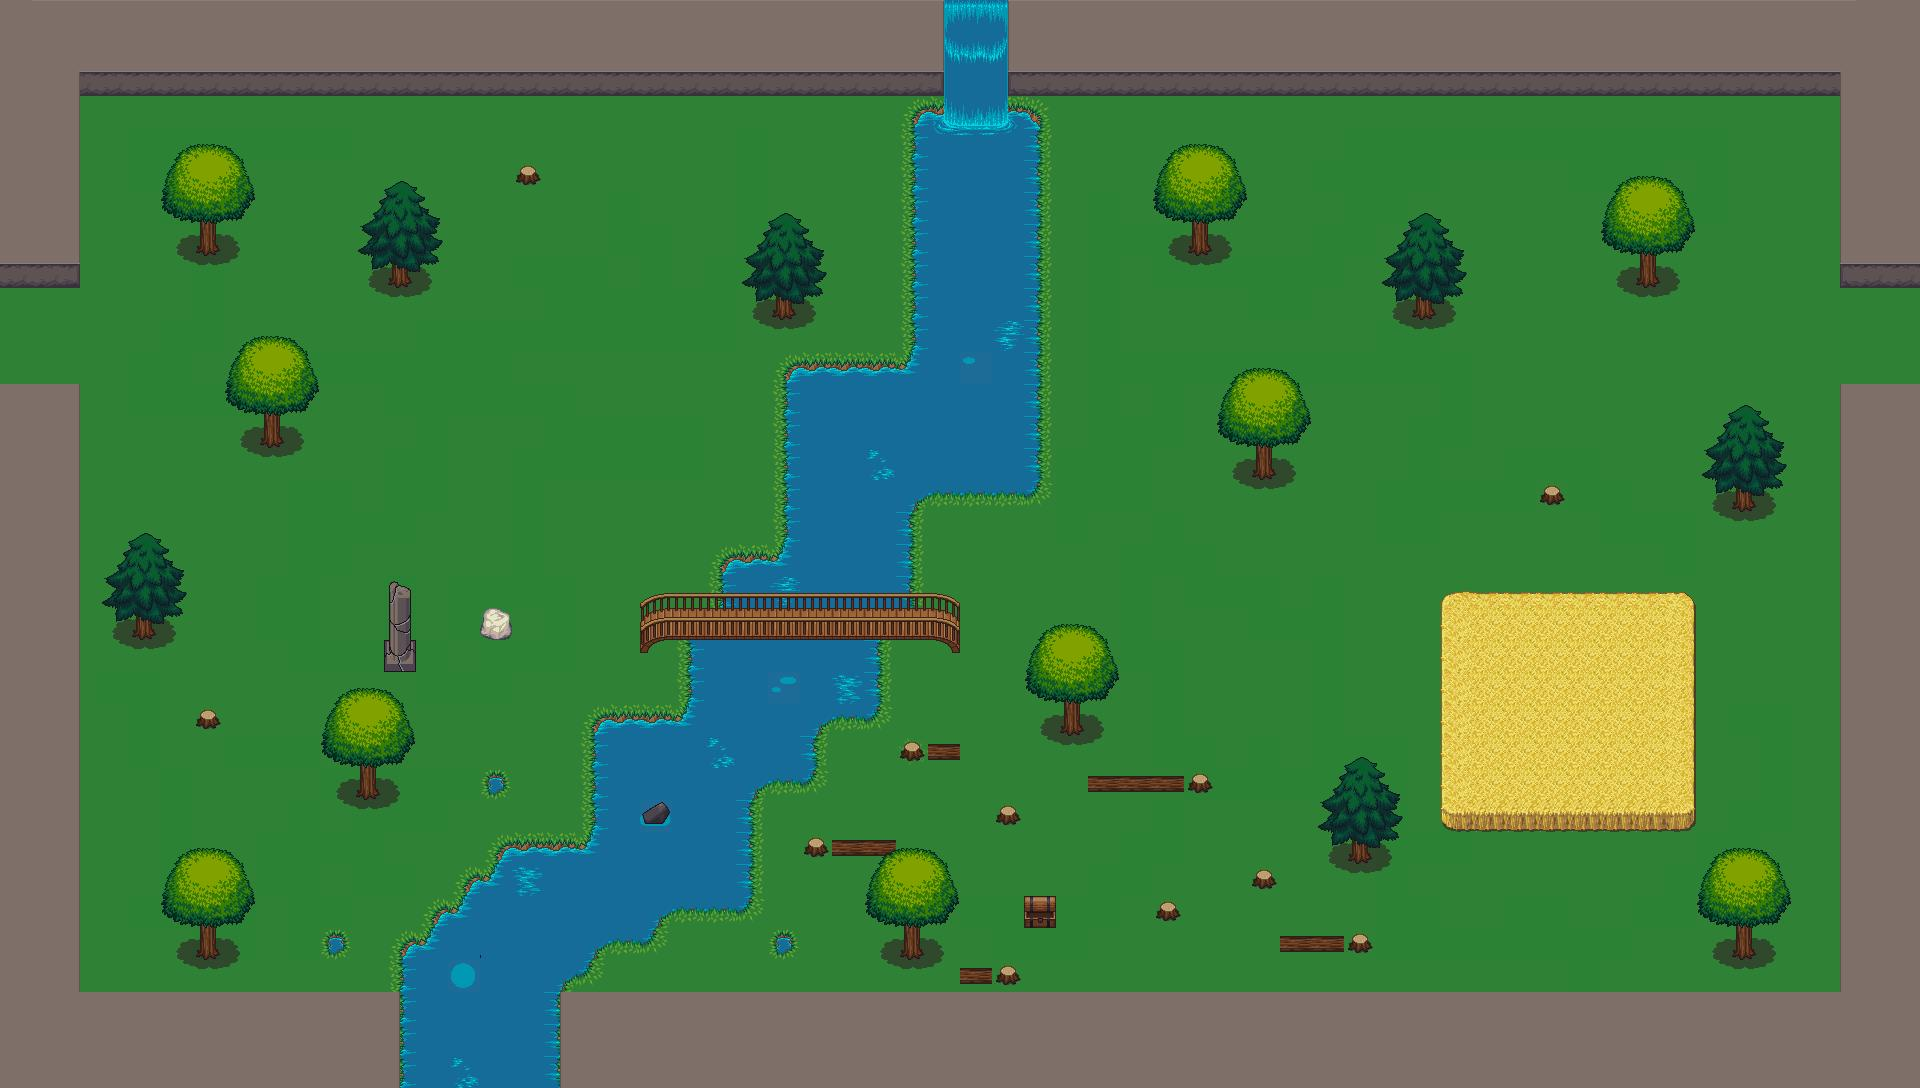
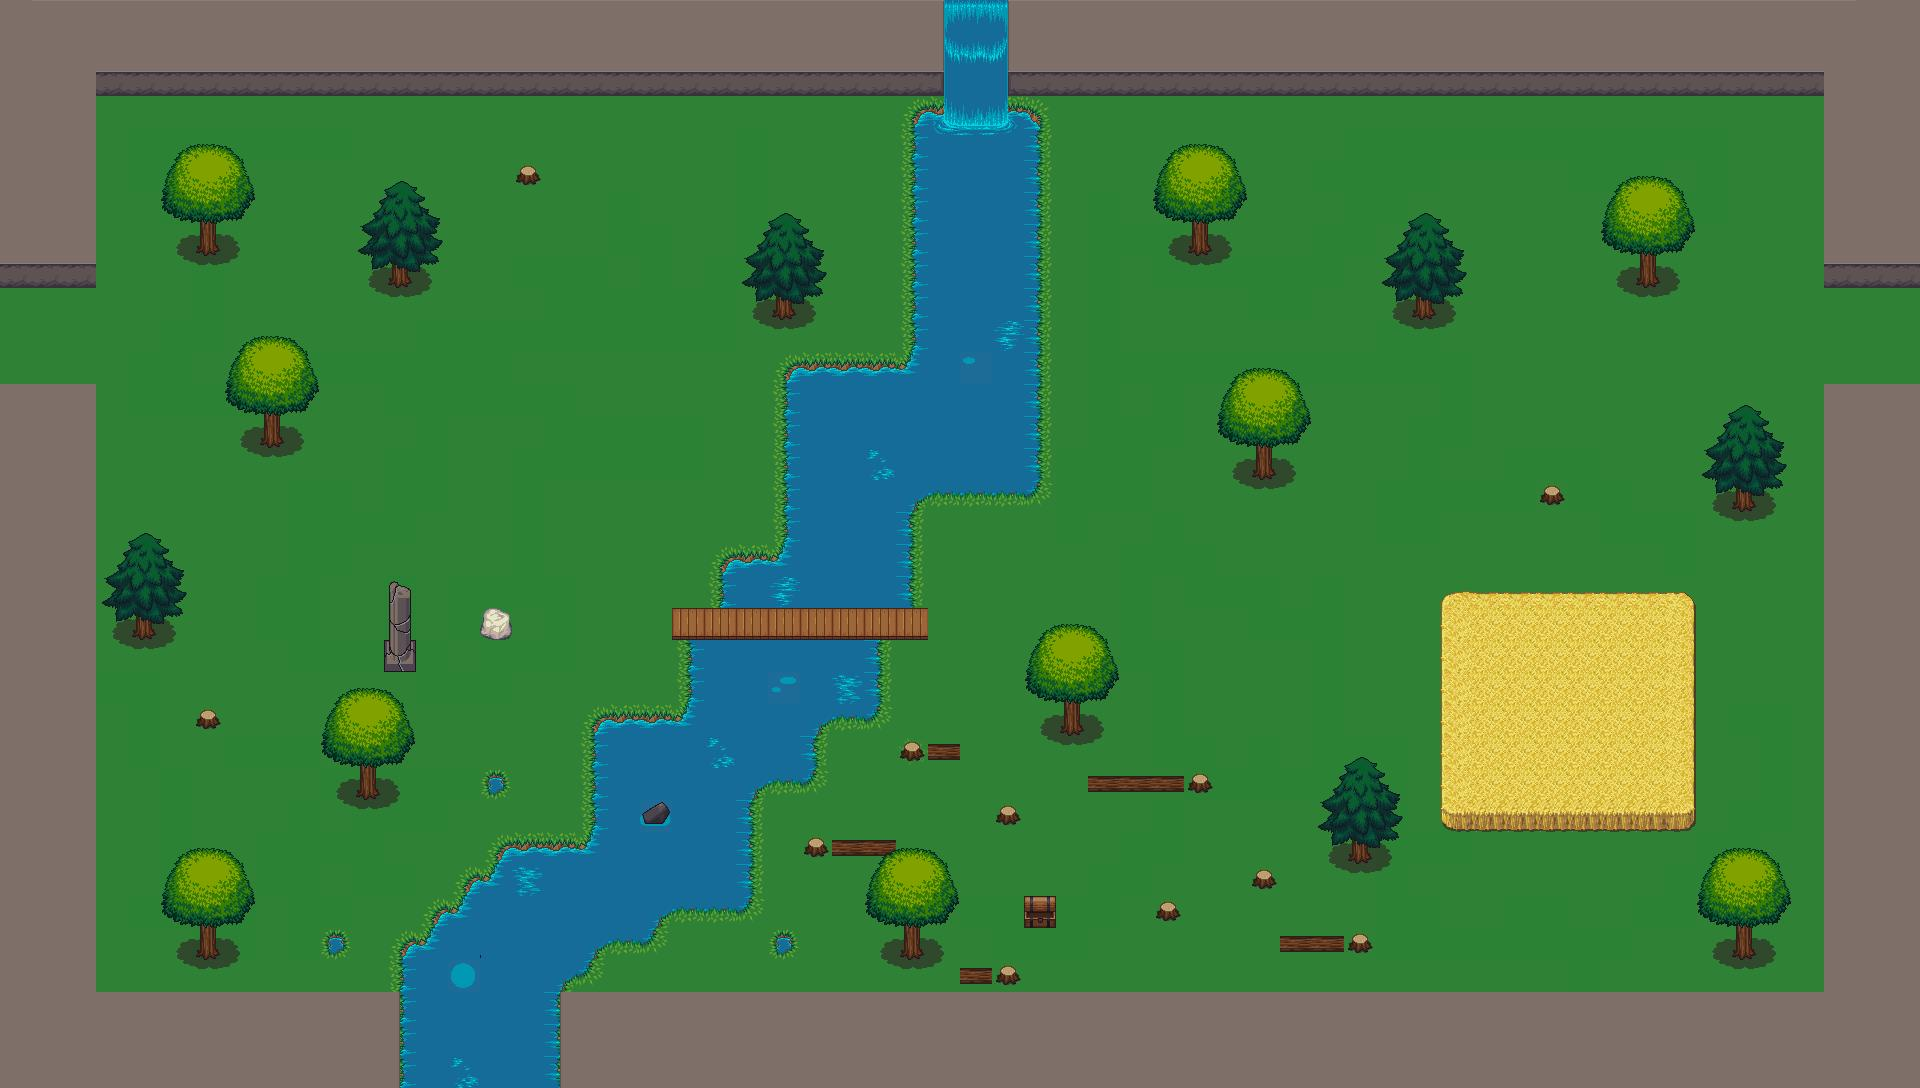
working map collisions on main map

diff --git a/src/anim/moves_perso.c b/src/anim/moves_perso.c
@@ -35,37 +35,46 @@ void move_rect(sfIntRect *rect, int offset, int max_value)
 void move_perso(perso_t *perso, int i)
 {
     int current_x = 0;
-    int current_ytop = 0;
-    int current_ybottom = 0;
+    int current_y = 0;
 
     char *map_tile[] = {
-        "WWWWWWWWWWWWWWWWWWWWWWWWWWWWWW",
-        "WWWWWWWWWWWWWWWWWWWWWWWWWWWWWW",
-        "WWWWWWWWWWWWWWWWWWWWWWWWWWWWWW",
-        "WWW*************************WW",
-        "WWW*************************WW",
-        "WWW*************T***********WW",
-        "WWW***T*********************WW",
-        "WWW***T*********************WW",
-        "WWW*********T***********T***WW",
-        "************************T***WW",
-        "****************************WW",
-        "************************WWWWWW",
-        "********T***************WWWWWW",
-        "********T***************WWWWWW",
-        "************************WWWWWW",
-        "************************WWWWWW",
-        "************************WWWWWW",
-        "************************WWWWWW",
-        "************************WWWWWW",
-        "************************WWWWWW",
-        "************************WWWWWW",
-        "************************WWWWWW",
-        "************************WWWWWW",
+        "WWWWWWWWWWWWWWWWWWWWWWWWWWWWWWWWWWWWWWWWWWWWWWWWWWWWWWWWWWWW",
+        "WWWWWWWWWWWWWWWWWWWWWWWWWWWWWWWWWWWWWWWWWWWWWWWWWWWWWWWWWWWW",
+        "WWWWWWWWWWWWWWWWWWWWWWWWWWWWWWWWWWWWWWWWWWWWWWWWWWWWWWWWWWWW",
+        "WWW*************************WWWWW************************WWW",
+        "WWW*************************WWWWW************************WWW",
+        "WWW*************W***********WWWWW************************WWW",
+        "WWW*************************WWWWW************************WWW",
+        "WWW***W*********************WWWWW****W*******************WWW",
+        "WWW*********W***************WWWWW******************W*****WWW",
+        "************************W***WWWWW***********W***************",
+        "****************************WWWWW***************************",
+        "************************WWWWWWWWW***************************",
+        "WWW*********************WWWWWWWWW************************WWW",
+        "WWW*****W***************WWWWWWWWW************************WWW",
+        "WWW*********************WWWWWWWWW******W*****************WWW",
+        "WWW*********************WWWWWWWWW***************W*****W**WWW",
+        "WWW*********************WWWWW****************************WWW",
+        "WWW*******************WWWWWWW****************************WWW",
+        "WWW*******************WWWWWWW****************************WWW",
+        "WWW*W**********W*****************************************WWW",
+        "WWW*********W********WWWWWWW*****************************WWW",
+        "WWW******************WWWWWWW*****************************WWW",
+        "WWW***W***********WWWWWWWWWW*****W***********************WWW",
+        "WWW***************WWWWWWWW**WW***************************WWW",
+        "WWW********W***W**WWWWWWWW********WWWW*******************WWW",
+        "WWW***************WWWWWW*******W*************************WWW",
+        "WWW************WWWWWWWWW*WWW**************W**************WWW",
+        "WWW***********WWWWWWWWWW***************W*****************WWW",
+        "WWW**********WWWWWWWWWWW********W***W********************WWW",
+        "WWW***W***W*WWWWWWWWW***W***W***********WWW***********W**WWW",
+        "WWW*********WWWWWWW***********WW*************************WWW",
+        "WWWWWWWWWWWWWWWWWWWWWWWWWWWWWWWWWWWWWWWWWWWWWWWWWWWWWWWWWWWW",
+        "WWWWWWWWWWWWWWWWWWWWWWWWWWWWWWWWWWWWWWWWWWWWWWWWWWWWWWWWWWWW",
+        "WWWWWWWWWWWWWWWWWWWWWWWWWWWWWWWWWWWWWWWWWWWWWWWWWWWWWWWWWWWW",
     };
 
-    current_ytop = (perso->pos.y) / 32;
-    current_ybottom = (perso->pos.y + 48) / 32;
+    current_y = (perso->pos.y + 32) / 32;
     current_x = (perso->pos.x + 32) / 32;
 
     if (i == 1) {
@@ -76,7 +85,7 @@ void move_perso(perso_t *perso, int i)
             perso->pos.y -= 8;
         else if (perso->pos.x > 69 && perso->pos.x < 1760 && perso->pos.y > 100)
             perso->pos.y -= 8;*/
-        if (map_tile[current_ytop][current_x] == '*' && map_tile[current_ybottom][current_x] == '*')
+        if (map_tile[current_y][current_x] == '*' && perso->pos.y > 70)
             perso->pos.y -= 8;
         else
             perso->pos.y -= 0;
@@ -89,7 +98,7 @@ void move_perso(perso_t *perso, int i)
             perso->pos.y += 8;
         else if (perso->pos.x > 69 && perso->pos.x < 1760 && perso->pos.y < 890)
             perso->pos.y += 8;*/
-        if (map_tile[current_ytop + 1][current_x] == '*' && map_tile[current_ybottom + 1][current_x] == '*')
+        if (map_tile[current_y + 1][current_x] == '*')
             perso->pos.y += 8;
         else
             perso->pos.y += 0;
@@ -98,7 +107,7 @@ void move_perso(perso_t *perso, int i)
         change_sprite(perso, "ressources/perso_left.png");
         /*if (perso->pos.x > 75 || (perso->pos.y > 220 && perso->pos.y < 290))
             perso->pos.x -= 8;*/
-        if (map_tile[current_ytop][current_x - 1] == '*' && map_tile[current_ybottom][current_x - 1] == '*')
+        if (map_tile[current_y][current_x - 1] == '*')
             perso->pos.x -= 8;
         else
             perso->pos.x -= 0;
@@ -107,7 +116,7 @@ void move_perso(perso_t *perso, int i)
         change_sprite(perso, "ressources/perso_right.png");
         /*if (perso->pos.x < 1750 || (perso->pos.y > 220 && perso->pos.y < 290))
             perso->pos.x += 8;*/
-        if (map_tile[current_ytop][current_x + 1] == '*' && map_tile[current_ybottom][current_x + 1] == '*')
+        if (map_tile[current_y][current_x + 1] == '*')
             perso->pos.x += 8;
         else
             perso->pos.x += 0;
